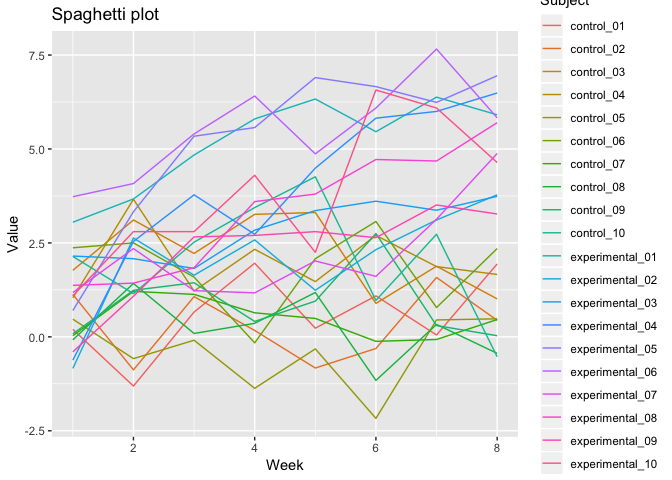
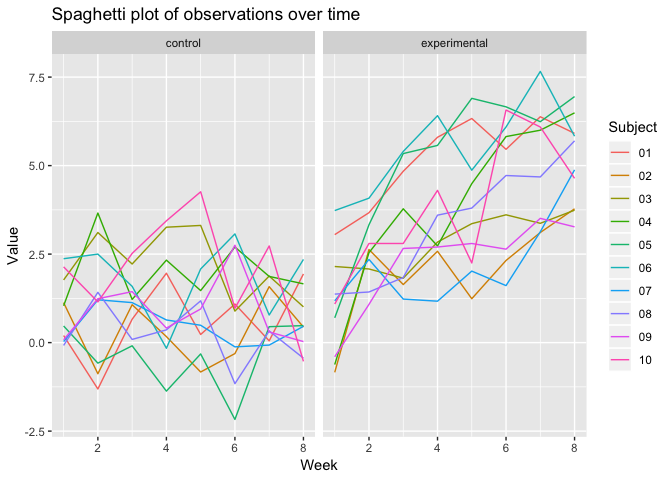
plot looks pretty good! added some interpretation too

diff --git a/p8105_hw5_tm2680.md b/p8105_hw5_tm2680.md
@@ -248,17 +248,17 @@ output = map_dfr(long_data, read_long, .id = "input") %>%
 
 ``` r
 output %>% 
-  group_by(arm) %>% 
-  ggplot(aes(x = week, y = value, color = id)) +
+  ggplot(aes(x = week, y = value, color = number)) +
   geom_line() +
   labs(
-    title = "Spaghetti plot",
+    title = "Spaghetti plot of observations over time",
     x = "Week",
     y = "Value"
   ) +
-  scale_color_hue(name = "Subject")
+  scale_color_hue(name = "Subject") +
+  facet_grid(~ arm)
 ```
 
 ![](p8105_hw5_tm2680_files/figure-markdown_github/long_data_load_tidy-1.png)
 
-Here is a dataframe that presents
+Here is a faceted spaghetti plot showing observations for each subject over a period of 8 weeks. On average, it looks like the values for the experimental group increased over time, whereas the values stayed roughly the same for the control group.
